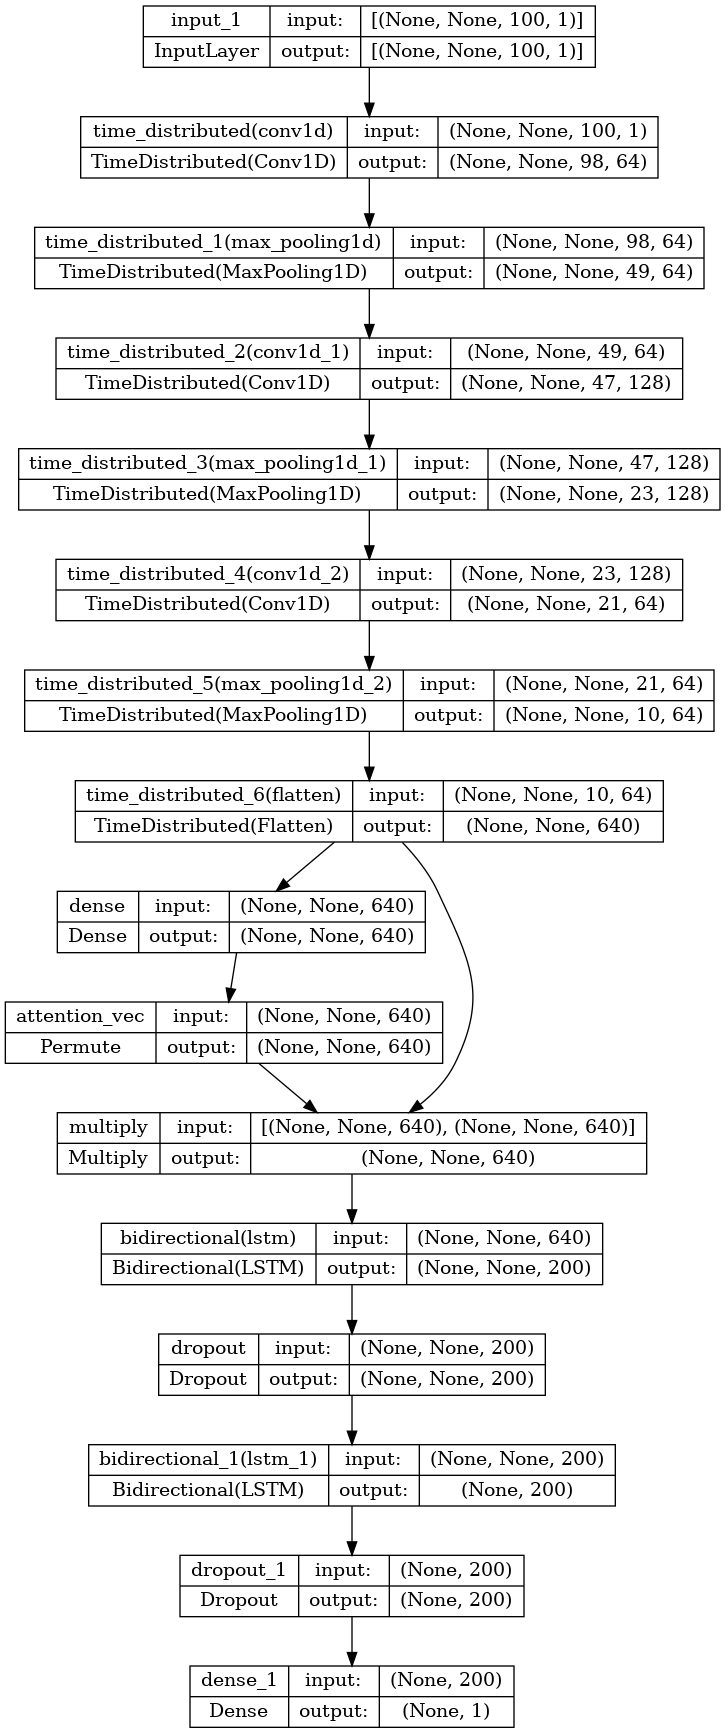
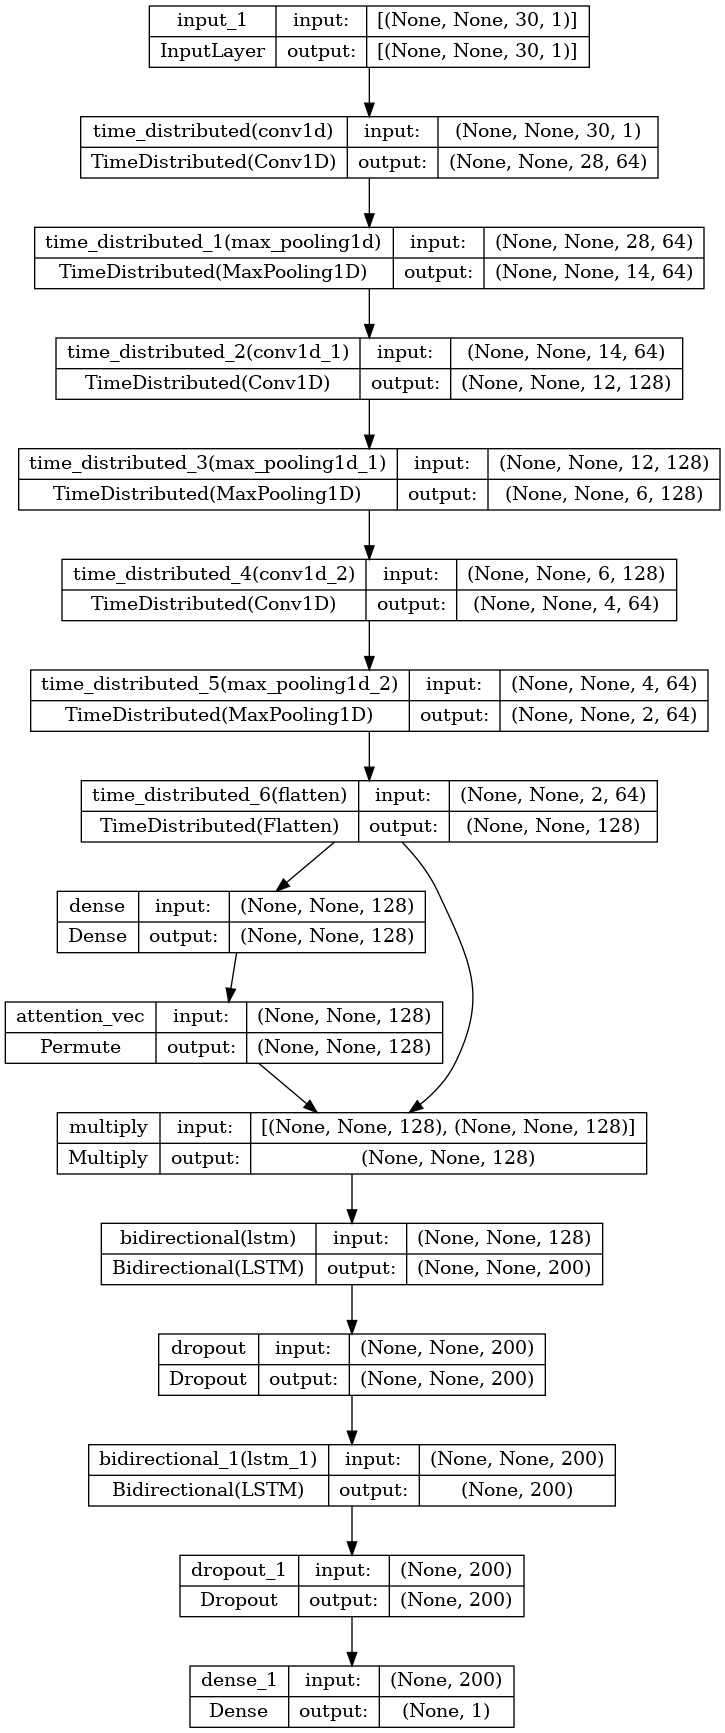
train test

diff --git a/train.py b/train.py
@@ -30,8 +30,10 @@ optimizer = tf.keras.optimizers.Adam(learning_rate=0.001)
 # %%
 mymodel.compile(optimizer=optimizer, loss='mse', metrics=['mse', 'mae'])
 
+#earlystopping 
+es  = tf.keras.callbacks.EarlyStopping(monitor='val_loss', patience=10, verbose=1, mode='auto')
 # %%
-history = mymodel.fit(x_close_train, y_close_train, validation_data=(x_close_val,y_close_val), epochs=50,batch_size=40, verbose=1, shuffle =True)
+history = mymodel.fit(x_close_train, y_close_train, validation_data=(x_close_val,y_close_val), epochs=50,batch_size=40, verbose=1, shuffle =True,callbacks=[es])
 
 # %%
 predicted=mymodel.predict(x_close_test)
@@ -43,34 +45,17 @@ predicted
 loss,rmse,mae=mymodel.evaluate(x_close_test,y_close_test)
 
 # %%
-def plot_metrics(metric_name, title, ylim=5):
+def plot_metrics(metric_name, title, ylim=2):
     plt.title(title)
     plt.ylim(0,ylim)
     plt.plot(history.history[metric_name],color='blue',label=metric_name)
     plt.plot(history.history['val_' + metric_name],color='green',label='val_' + metric_name)
+    plt.legend()
+    plt.show()
 
-
+plt.figure(1)
 plot_metrics(metric_name='loss',title="Loss",ylim=0.02)
 
 # %%
-predicted=mymodel.predict(x_close_test)
-test_label=y_close_test.reshape(-1,1)
-predicted=np.array(predicted[:,0]).reshape(-1,1)
-len_train=len(x_close_train)
 
-for j in range(len_train,len_train+len(x_close_test)):
-    temp=df.iloc[j,3]
-    predicted[j-len_train]=(predicted[j-len_train]+1)*temp
-    test_label[j-len_train]=(test_label[j-len_train]+1)*temp
 
-# %%
-predicted
-
-# %%
-plt.plot(predicted, color = 'green', label = 'Predicted  Stock Price')
-plt.plot(test_label, color = 'red', label = 'Real Stock Price')
-plt.title(' Stock Price Prediction')
-plt.xlabel('Time')
-plt.ylabel(' Stock Price')
-plt.legend()
-plt.show()

diff --git a/test.py b/test.py
@@ -1,0 +1,35 @@
+from train import mymodel
+from data_process import *
+import matplotlib.pyplot as plt
+#matplotlib inline
+plt.style.use("ggplot")
+
+
+#test loss
+loss,rmse,mae=mymodel.evaluate(x_close_test,y_close_test)
+plt.figure(3)
+plt.plot(loss,color = 'red', label = 'test')
+plt.legend()
+plt.show()
+print(loss)
+
+predicted=mymodel.predict(x_close_test)
+test_label=y_close_test.reshape(-1,1)
+predicted=np.array(predicted[:,0]).reshape(-1,1)
+len_train=len(x_close_train)
+
+for j in range(len_train,len_train+len(x_close_test)):
+    temp=df.iloc[j,3]
+    predicted[j-len_train]=(predicted[j-len_train]+1)*temp
+    test_label[j-len_train]=(test_label[j-len_train]+1)*temp
+
+
+#real stock loss
+plt.figure(2)
+plt.plot(predicted, color = 'green', label = 'Predicted  Stock Price')
+plt.plot(test_label, color = 'red', label = 'Real Stock Price')
+plt.title(' Stock Price Prediction')
+plt.xlabel('Time')
+plt.ylabel(' Stock Price')
+plt.legend()
+plt.show()

diff --git a/model.py b/model.py
@@ -9,7 +9,7 @@ from tensorflow.keras.metrics import Accuracy
 from tensorflow.keras.metrics import RootMeanSquaredError
 import pydot
 from tensorflow.keras.models import Model
-
+from data_process import window_size
 # %%
 from tensorflow.keras.utils import plot_model
 import pydot
@@ -34,7 +34,7 @@ def attention_3d(inputs,single_attention_vector = False):
 
 # %%
 def build_model():
-    input_layer= tf.keras.Input(shape=(None,100, 1))
+    input_layer= tf.keras.Input(shape=(None,window_size, 1))
     
     #cov layers
     cov_1=TimeDistributed(Conv1D(64, kernel_size=3, activation='relu'))(input_layer)

diff --git a/data_process.py b/data_process.py
@@ -30,7 +30,7 @@ from sklearn.model_selection import train_test_split
 
 X_close=[]
 Y_close=[]
-window_size=100
+window_size=30
 
 for i in range(1,len(df)-window_size):
     first=df.iloc[i,3]
